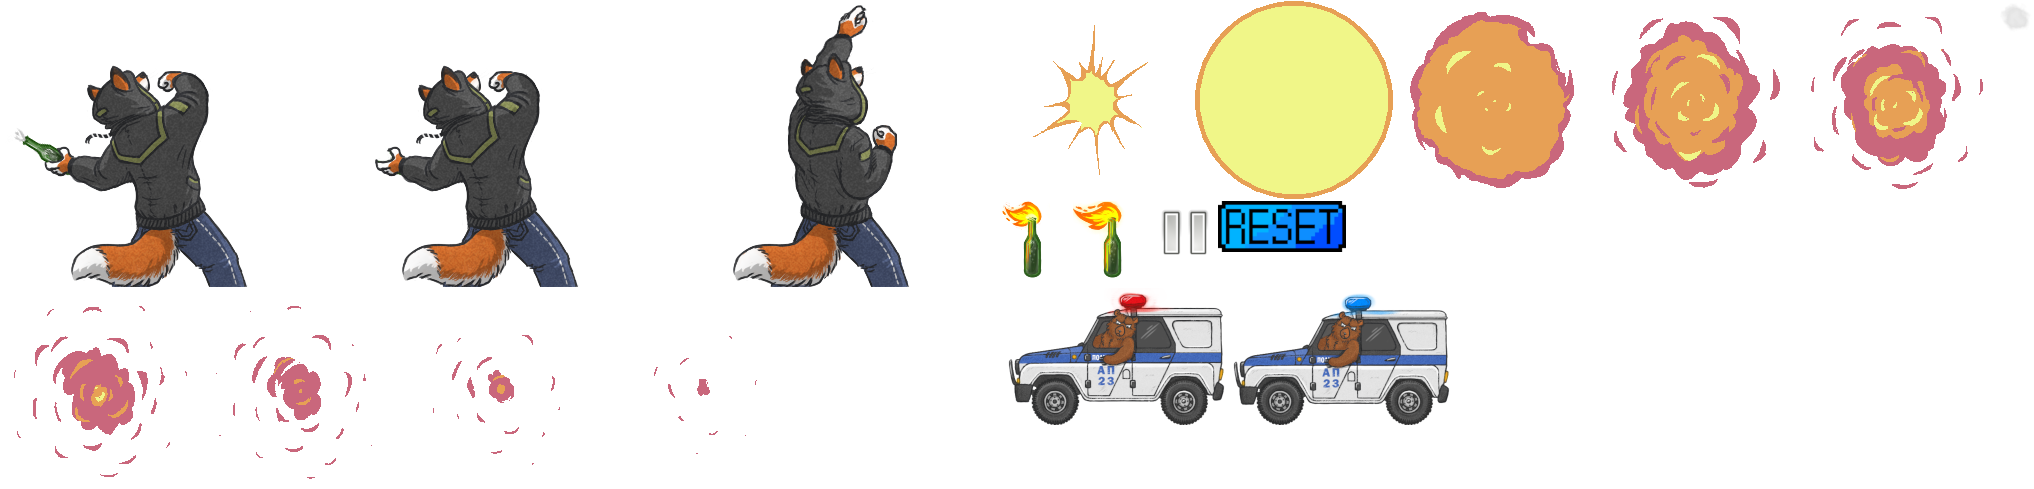
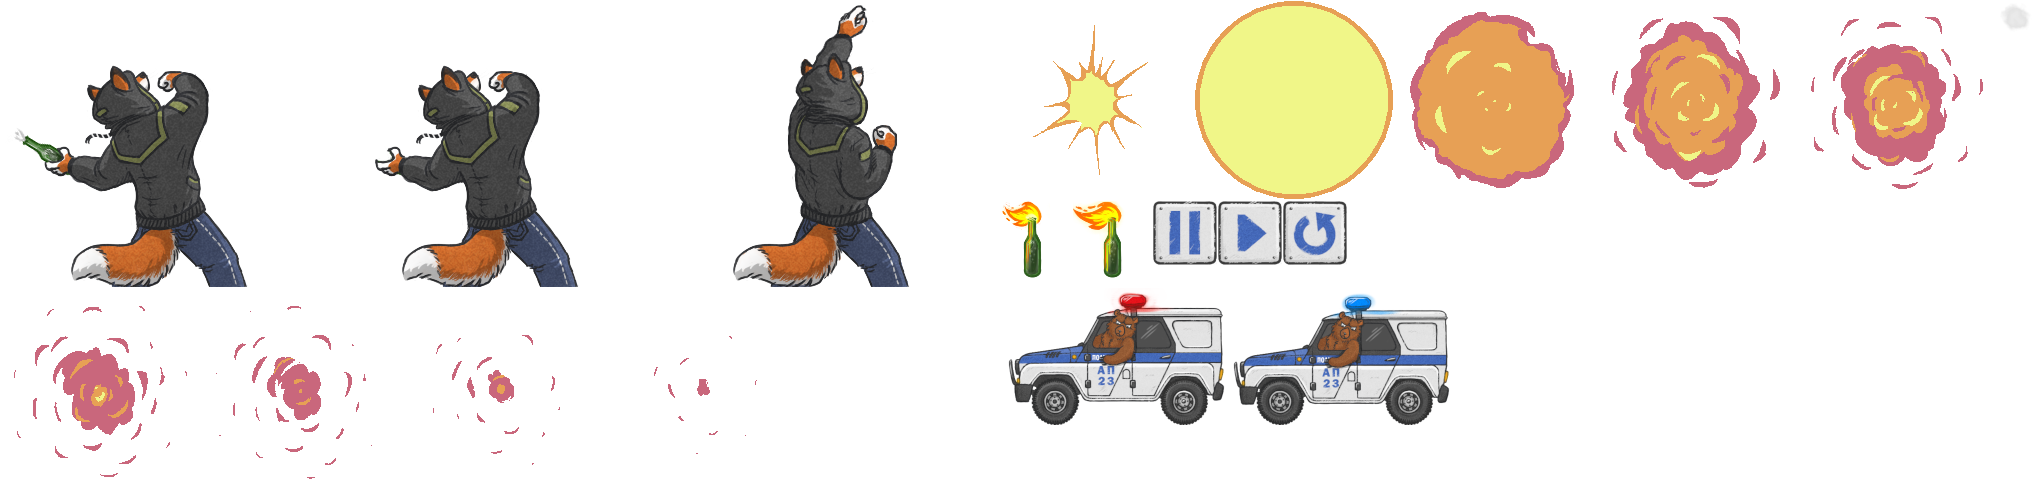
play, pause, reset btns

Changed region(s): [[0.5575, 0.3988, 0.6814, 0.5521]]

diff --git a/src/engine_specific/sfml/sfml_Application.cpp b/src/engine_specific/sfml/sfml_Application.cpp
@@ -52,18 +52,12 @@ void Application::handleEvent(sf::Event* event) {
 		const sf::Vector2i mousePos = sf::Mouse::getPosition(*_window);
 		_gamePtr->OnCursorMoved(toGamePoint(mousePos));
 
-		const bool mouseOnPauseBtn = isMouseOn(_pauseBtnImg, mousePos);
+		const bool mouseOnPauseBtn = isMouseOn(_pauseBtnImg, mousePos) || isMouseOn(_playBtnImg, mousePos);
 
-		sf::Color pauseBtnClr = sf::Color::White;
+		auto& playPauseSpr = _gamePtr->GetPaused() ? _playBtnImg : _pauseBtnImg;
 
-		if (_gamePtr->GetPaused()) {
-			pauseBtnClr = Utils::toSfmlColor(mouseOnPauseBtn ? CfgStatic::btnPauseOnHoverClr : CfgStatic::btnPauseOnClr);
-		}
-		else if (!mouseOnPauseBtn) {
-			pauseBtnClr = Utils::toSfmlColor(CfgStatic::btnPauseOffNoHoverClr);
-		}
-
-		_pauseBtnImg->getSpr()->setColor(pauseBtnClr);
+		sf::Color playPauseBtnClr = mouseOnPauseBtn ? sf::Color::White : Utils::toSfmlColor(CfgStatic::btnPlayPauseNotHoveredClr);
+		playPauseSpr->getSpr()->setColor(playPauseBtnClr);
 	};
 
 	switch (event->type) {
@@ -78,7 +72,7 @@ void Application::handleEvent(sf::Event* event) {
 			_gamePtr->OnCursorMoved(toGamePoint(mousePos));
 			
 			const bool mouseOnRestartBtn = isMouseOn(_restartBtnImg, mousePos);
-			_restartBtnImg->getSpr()->setColor(mouseOnRestartBtn ? sf::Color::White : Utils::toSfmlColor(CfgStatic::btnNotHoveredClr));
+			_restartBtnImg->getSpr()->setColor(mouseOnRestartBtn ? sf::Color::White : Utils::toSfmlColor(CfgStatic::btnPlayPauseNotHoveredClr));
 
 			refreshPauseColor();
 		}
@@ -116,6 +110,22 @@ Point Application::toGamePoint(const sf::Vector2i pos){
 	return gamePoint;
 };
 
+SpritePtr initBtn(const std::string& sprName) {
+	SpritePtr spritePtr;
+
+	const auto& texRect = ResourceManager::Inst()->GetTexture(sprName);
+	if (texRect.texturePtr.lock() == nullptr) {
+		Log::Inst()->PutErr("Application::Run error, not found " + sprName);
+		return spritePtr;
+	}
+
+	TexturePtr btnTex = texRect.texturePtr.lock();
+	spritePtr = std::make_shared<Sprite>(*btnTex);
+	spritePtr->getSpr()->setTextureRect(Utils::toSfmlRect(texRect.rect));
+
+	return spritePtr;
+}
+
 bool Application::init() {
 
 	const bool atlasLoadedOk = ResourceManager::Inst()->LoadAtlas(CfgStatic::atlasPng, CfgStatic::atlasMtpf);
@@ -127,29 +137,26 @@ bool Application::init() {
 
 	Log::Inst()->PutMessage("LOADING GAME...");
 
-	const auto& restartTexRect = ResourceManager::Inst()->GetTexture(CfgStatic::restartImgFile);
-	if (restartTexRect.texturePtr.lock() == nullptr) {
-		Log::Inst()->PutErr("Application::Run error, not found " + CfgStatic::restartImgFile);
+	_pauseBtnImg   = initBtn(CfgStatic::pauseImgFile);
+	_playBtnImg    = initBtn(CfgStatic::playImgFile);
+	_restartBtnImg = initBtn(CfgStatic::restartImgFile);
+
+	if (_pauseBtnImg   == nullptr ||
+		_playBtnImg    == nullptr ||
+		_restartBtnImg == nullptr) {
+
+		Log::Inst()->PutErr("Application::init error, buttons not initialized... ");
 		return false;
 	}
 
-	const auto& pauseTexRect = ResourceManager::Inst()->GetTexture(CfgStatic::pauseImgFile);
-	if (pauseTexRect.texturePtr.lock() == nullptr) {
-		Log::Inst()->PutErr("Application::Run error, not found " + CfgStatic::pauseImgFile);
-		return false;
-	}
-
-	TexturePtr pauseBtnTex = pauseTexRect.texturePtr.lock();
-	_pauseBtnImg = std::make_shared<Sprite>(*pauseBtnTex);
-	_pauseBtnImg->getSpr()->setTextureRect(Utils::toSfmlRect(pauseTexRect.rect));
-	_pauseBtnImg->getSpr()->setPosition(0.f, 0.f);
-
-	TexturePtr restartBtnTex = restartTexRect.texturePtr.lock();
-	_restartBtnImg = std::make_shared<Sprite>(*restartBtnTex);
-	_restartBtnImg->getSpr()->setTextureRect(Utils::toSfmlRect(restartTexRect.rect));
+	_pauseBtnImg  ->getSpr()->setPosition(0.f, 0.f);
+	_playBtnImg   ->getSpr()->setPosition(0.f, 0.f);
 	_restartBtnImg->getSpr()->setPosition(CfgStatic::windowSize.getX() - _restartBtnImg->getSpr()->getTextureRect().width, 0.f);
 
-	_window = std::make_shared<sf::RenderWindow>(sf::VideoMode(CfgStatic::windowSize.i_X(), CfgStatic::windowSize.i_Y()), CfgStatic::appTitle, sf::Style::Titlebar | sf::Style::Close);
+	const auto& videoMode = sf::VideoMode(CfgStatic::windowSize.i_X(), CfgStatic::windowSize.i_Y());
+	const auto wndFlags = sf::Style::Titlebar | sf::Style::Close;
+
+	_window = std::make_shared<sf::RenderWindow>(videoMode, CfgStatic::appTitle, wndFlags);
 
 	startGame();
 
@@ -159,7 +166,10 @@ bool Application::init() {
 void Application::draw() {
 
 	_gamePtr->Draw();
-	_window->draw(*_pauseBtnImg->getSpr());
+
+	auto& playPauseSpr = _gamePtr->GetPaused() ? _playBtnImg : _pauseBtnImg;
+	_window->draw(*playPauseSpr->getSpr());
+		
 	_window->draw(*_restartBtnImg->getSpr());
 	_window->display();
 }

diff --git a/src/include/Config.h b/src/include/Config.h
@@ -62,6 +62,7 @@ namespace CfgStatic {
 
 	static const std::string smokePng = "smoke.png";
 
+	static const std::string playImgFile       = "play.png";
 	static const std::string pauseImgFile      = "pause.png";
 	static const std::string restartImgFile    = "reset.png";
 	static const std::string bulletSpr         = "bottle_fire.png";
@@ -84,11 +85,7 @@ namespace CfgStatic {
 
 	//colors 
 
-	static const Utils::Color btnPauseOnClr(100, 100, 100);
-	static const Utils::Color btnPauseOnHoverClr(150, 150, 150);
-	
-	static const Utils::Color btnPauseOffNoHoverClr(230, 230, 230);
-
+	static const Utils::Color btnPlayPauseNotHoveredClr(230, 230, 230);
 	static const Utils::Color btnNotHoveredClr(230, 230, 230);
 	static const Utils::Color scoreClr(0, 255, 0);
 	static const Utils::Color smokeClr(192, 192, 192);

diff --git a/src/engine_specific/sfml/sfml_Application.h b/src/engine_specific/sfml/sfml_Application.h
@@ -35,5 +35,6 @@ private:
 	GamePtr _gamePtr;
 	SpritePtr _restartBtnImg;
 	SpritePtr _pauseBtnImg;
+	SpritePtr _playBtnImg;
 	WindowPtr _window{ nullptr };
 };
